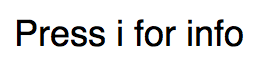
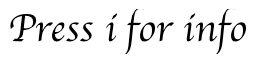
updates

Changed region(s): [[0.0311, 0.1538, 0.6848, 0.8308], [0.716, 0.1231, 0.965, 0.8308], [0.5292, 0.1231, 0.5603, 0.1538]]

diff --git a/music/index.html b/music/index.html
@@ -1,16 +1,16 @@
 <!DOCTYPE HTML>
     <html land=en>
-        <title>music</title>
+        <title>Gregor</title>
         <head><link rel="icon" type="image/png" href="icon.png"><style type="text/css">a {text-decoration: none}</style></head>
         <body bgcolor="#FFFF99">
-        <font size="4" ><a href="http://6regor.github.io"><u>Back</u></a>
+        <font size="4" ><a href="http://6regor.github.io"><u><font face="cursive">Back</font></u></a>
         
         <P>&nbsp;<P>
-        <center><figure><a href="https://chaptermusic.bandcamp.com/album/thoughts-faults"><img src="thoughtscover.png" style="width:220px;height:300px" border="1"></a><figcaption><font size="4" color="black"><a href="https://chaptermusic.bandcamp.com/album/thoughts-faults"> Thought and Faults [2016]</a></font></figcaption></figure></center>
+        <center><figure><a href="https://chaptermusic.bandcamp.com/album/thoughts-faults"><img src="thoughtscover.png" style="width:220px;height:300px" border="1"></a><figcaption><font size="4" color="black"><a href="https://chaptermusic.bandcamp.com/album/thoughts-faults"><font face="cursive"> Thought & Faults [2016]</a></font></figcaption></figure></center>
         <center>
-        <center><figure><a href="https://6regor.bandcamp.com/album/uw"><img src="uwcover.png" style="width:220px;height:220px" border="1"></a><figcaption><font size="4" color="black"><a href="https://6regor.bandcamp.com/album/uw"> Unfinished Work [2016]</a></font></figcaption></figure></center>
+        <center><figure><a href="https://6regor.bandcamp.com/album/uw"><img src="uwcover.png" style="width:220px;height:220px" border="1"></a><figcaption><font size="4" color="black"><a href="https://6regor.bandcamp.com/album/uw"> <font face="cursive">Unfinished Work [2016]</a></font></figcaption></figure></center>
         <center>
-        <center><figure><a href="https://6regor.bandcamp.com/album/aneurysms"><img src="aneurysmscover.png" style="width:220px;height:220px" border="1"></a><figcaption><font size="4" color="black"><a href="https://6regor.bandcamp.com/album/aneurysms"> Aneurysms [2014]</a></font></figcaption></figure></center>
+        <center><figure><a href="https://6regor.bandcamp.com/album/aneurysms"><img src="aneurysmscover.png" style="width:220px;height:220px" border="1"></a><figcaption><font size="4" color="black"><a href="https://6regor.bandcamp.com/album/aneurysms"> <font face="cursive">Aneurysms [2014]</a></font></figcaption></figure></center>
         <center>
 
 

diff --git a/info/index.html b/info/index.html
@@ -1,18 +1,18 @@
 <!DOCTYPE HTML>
     <html land=en>
-        <title>info, news</title>
+        <title>Gregor</title>
         <head><link rel="icon" type="image/png" href="icon.png"/></head>
         <body bgcolor="#FFFF99">
-        <font size="4" ><a href="http://6regor.github.io">Back</a>
-        <center>info, news</center>
-        <center><figure><img src="pic2.png" style="width:540px;height:720px" border="1"><figcaption><font size="5">this pic was taken a few hours before making this website</font></figcaption></figure></center>
-        <P>&nbsp;<P>
+        <font size="4" face="cursive"><a href="http://6regor.github.io">Back</a></font>
+        <center><font face="cursive">info, news</font></center>
+        <center><figure><img src="streetlamp.png" style="width:540px;height:720px" border="0"><figcaption><font size="5" face="cursive">nothing to report right now, come back soon..</font></figcaption></figure></center>
+        <!--<P>&nbsp;<P>
         <center>
         <p><font size="5"><i>"Who is still a young boy, just 22, is counting a collection of songs on the market, in which one hear and see passes. So colorful, so shrill and yet perfectly twisted, so dazzling and yet without a blender, a wild, fascinating, eccentric ride through a very own universe. [...] He has a shady tone, a prize melancholy, is gladly worked up. [...] So the Australian promotes a sound performance after another to the surface, the charms are well-received and never over the top. [...] The magic is based on the distancing unit, of the delicacy of the apparent urgent artificiality." </i>- <a href="http://dasklienicum.blogspot.com.au/2016/10/neue-tone-1677-gregor.html">das klienicum</a></font></p></center>
         <P>&nbsp;<P>
         <p><center><font size="5"><i>upcoming</i></font></center></p>
         <p><center><figure><a href="https://www.facebook.com/events/1225010080905641/"><img src="toff.png" style="width:540px;height:720px" border="1"></a></figure></center></p>
-        <p><center><figure><a href="https://www.facebook.com/events/1731905380468997/"><img src="mpav.png" style="width:540px;height:500px" border="1"></a></figure></center></p>
+        <p><center><figure><a href="https://www.facebook.com/events/1731905380468997/"><img src="mpav.png" style="width:540px;height:500px" border="1"></a></figure></center></p>-->
         
 
 

diff --git a/index.html b/index.html
@@ -5,18 +5,19 @@
         <body bgcolor="#FFFF99">
         <P>&nbsp;<P>
         <center><div style="margin:0px; padding:0px; width:274px; height:133px; z-index:100;">
-<a style="padding:0px; margin:0px; border: none;" ><img src="http://glittertextmaker.info/glittertext/holdz/z5826c6a5c86ce.gif"  width="230" height="150" border="0" /></a><br />
+<a style="padding:0px; margin:0px; border: none;" ><img src="http://glittertextmaker.info/glittertext/holdz/z58aebd9257c88.gif"  width="230" height="150" border="0" /></a><br />
 <div style="position:relative; z-index:101; top:-8px; left:10px; height:20px;">
 <a style=" font-family:Verdana, Arial, Helvetica, sans-serif; font-size:9px; text-decoration:none; color:#999999; padding:0px; margin:0px;" ></a></div></div>
 </center>
         <P>&nbsp;<P>
         <!--<center><figure><img src="face.png" style="width:50px;height:75px" border="0"></figure></center>-->
         <!--<center><p><a href="the_bust"> the_bust</a></p></center>-->
-        <center><p><a href="info"> info, news</a></p></center>
-        <center><p><a href="music"> music</a></p></center>
-        <center><p><a href="interactive"> interactive</a></p></center>
+        <center><p><a href="info"><font face="cursive"> info, news</a></p></center>
+        <center><p><a href="music"><font size="4"> music</font></a></p></center>
+        <center><p><a href="interactive"><font size="2"> interactive</font></a></p></center>
+        <center><p><a href="dandelion"><font size="5"> dandelion honey</font></a></p></center>
         <!--<center><p><a href="fabric"> fabric</a></p></center>-->
-        <center><p><a href="contact"> contact</a></p></center>
+        <center><p><a href="contact"> contact</a></p></center></font>
 
 
 
@@ -24,3 +25,5 @@
 </div>
         </body>
     </html>
+
+

diff --git a/contact/index.html b/contact/index.html
@@ -1,15 +1,21 @@
 <!DOCTYPE HTML>
     <html land=en>
-        <title>contact</title>
+        <title>Gregor</title>
         <head><link rel="icon" href="icon.png"/></head>
         <body bgcolor="#FFFF99">
-        <font size="4" ><a href="http://6regor.github.io">Back</a>
+        <font size="4" ><a href="http://6regor.github.io"><font face="cursive">Back</a>
 
         <P>&nbsp;<P>
         <center>
         <ul style="list-style-type:none">
-        <li><font size="3"><a>my email is </font><font size="4">gregorkompar@gmail.com</font></a></li>
-        <li><font size="4" face="impact"><a href="https://www.facebook.com/gregorsings"><i>facebook </i></font></a></li></ul></center>
+        <li><font size="2"><a><font face="cursive">type up any mail and send to &nbsp&nbsp&nbsp&nbsp&nbsp&nbsp&nbsp&nbsp&nbsp  </font><font size="4">gregorkompar@gmail.com</font></a></li>
+        <P>&nbsp;<P>
+        <li><font size="2"><a><font face="cursive">or alternatively type up a request for my mailing address and send that &nbsp&nbsp&nbsp&nbsp&nbsp&nbsp&nbsp&nbsp&nbsp&nbsp&nbsp&nbsp&nbsp  </font></a></li>
+        <P>&nbsp;<P>
+        <P>&nbsp;<P>
+        <P>&nbsp;<P>
+        <li><font size="2"><a><font face="cursive">It would be nice to hear from you.. x &nbsp&nbsp&nbsp&nbsp&nbsp&nbsp&nbsp&nbsp&nbsp&nbsp&nbsp&nbsp&nbsp&nbsp&nbsp&nbsp&nbsp&nbsp&nbsp&nbsp&nbsp&nbsp&nbsp&nbsp&nbsp&nbsp&nbsp&nbsp&nbsp&nbsp&nbsp&nbsp&nbsp&nbsp&nbsp&nbsp&nbsp&nbsp&nbsp&nbsp   </font></a></li>
+        <!--<li><font size="4" face="impact"><a href="https://www.facebook.com/gregorsings"><i>facebook </i></font></a></li>--></ul></center>
 
 
 

diff --git a/interactive/index.html b/interactive/index.html
@@ -1,17 +1,17 @@
 <!DOCTYPE HTML>
     <html land=en>
-        <title>interactive</title>
+        <title>Gregor</title>
         <head><link rel="icon" type="image/png" href="icon.png"/></head>
         <body bgcolor="#FFFF99">
-        <font size="4" ><a href="http://6regor.github.io">Back</a>
+        <font size="4" ><a href="http://6regor.github.io"><font face="cursive">Back</a>
 
         <P>&nbsp;<P>
         
         <!--<center><p><a href="the_bust"> the_bust</a></p></center>-->
 
-        <center><p><a href="self_portrait"> self portrait</a></p></center>
+        <!--<center><p><a href="self_portrait"> self portrait</a></p></center>-->
         <!--<center><p><a href="normal_life"> normal life game</a></p></center>-->
-        <center><p><a href="trout_music"> trout music simulator diagram</a></p></center>
+        <center><p><a href="trout_music"> <font face="cursive">trout music simulator diagram</a></p></center>
 
 
 

diff --git a/dandelion/index.html b/dandelion/index.html
@@ -1,0 +1,23 @@
+<!DOCTYPE HTML>
+    <html land=en>
+        <title>Gregor</title>
+        <head><link rel="icon" type="image/png" href="icon.png"/></head>
+        <body bgcolor="white">
+        <font size="4" face="cursive"><a href="http://6regor.github.io">Back</a></font>
+        <center><figure><img src="dandelion.png" style="width:540px;height:720px" border="0"></figure></center>
+            <style> div {
+    background-color: white;
+    width: 300px;
+    border: 1px solid black;
+    padding: 25px;
+    margin: 25px;
+}
+</style>
+</head>
+<body>
+            <center><div><font size="5" face="cursive">"400 flowers. Wash them. Put them in 1L water. To boil 40min. Sit 24h. Strain. 1kg sugar (and 2 lemons sliced) and boil to become thick like honey."</font></div></center>
+    
+
+</div>
+        </body>
+    </html>
